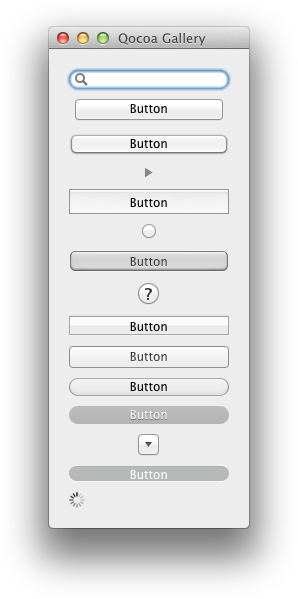
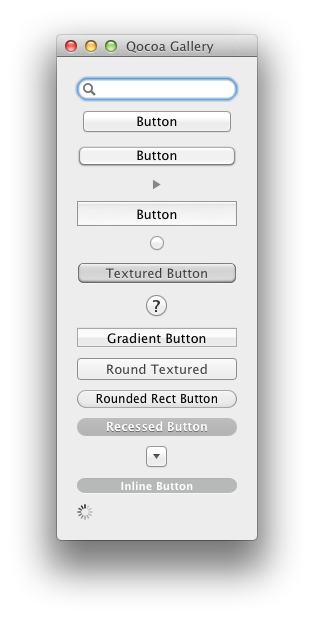
Extend QButton API.

Changed region(s): [[0.151, 0.0301, 0.8456, 0.9015]]

diff --git a/gallery.cpp b/gallery.cpp
@@ -10,21 +10,60 @@ Gallery::Gallery(QWidget *parent) : QWidget(parent)
 {
     setWindowTitle("Qocoa Gallery");
     QVBoxLayout *layout = new QVBoxLayout(this);
-    layout->addWidget(new QSearchField(this));
-    layout->addWidget(new QButton(this, QButton::Rounded));
-    layout->addWidget(new QButton(this, QButton::RegularSquare));
-    layout->addWidget(new QButton(this, QButton::Disclosure));
-    layout->addWidget(new QButton(this, QButton::ShadowlessSquare));
-    layout->addWidget(new QButton(this, QButton::Circular));
-    layout->addWidget(new QButton(this, QButton::TexturedSquare));
-    layout->addWidget(new QButton(this, QButton::HelpButton));
-    layout->addWidget(new QButton(this, QButton::SmallSquare));
-    layout->addWidget(new QButton(this, QButton::TexturedRounded));
-    layout->addWidget(new QButton(this, QButton::RoundRect));
-    layout->addWidget(new QButton(this, QButton::Recessed));
-    layout->addWidget(new QButton(this, QButton::RoundedDisclosure));
+
+    QSearchField *searchField = new QSearchField(this);
+    layout->addWidget(searchField);
+
+    QButton *roundedButton = new QButton(this, QButton::Rounded);
+    roundedButton->setText("Button");
+    layout->addWidget(roundedButton);
+
+    QButton *regularSquareButton = new QButton(this, QButton::RegularSquare);
+    regularSquareButton->setText("Button");
+    layout->addWidget(regularSquareButton);
+
+    QButton *disclosureButton = new QButton(this, QButton::Disclosure);
+    layout->addWidget(disclosureButton);
+
+    QButton *shadowlessSquareButton = new QButton(this, QButton::ShadowlessSquare);
+    shadowlessSquareButton->setText("Button");
+    layout->addWidget(shadowlessSquareButton);
+
+    QButton *circularButton = new QButton(this, QButton::Circular);
+    layout->addWidget(circularButton);
+
+    QButton *textureSquareButton = new QButton(this, QButton::TexturedSquare);
+    textureSquareButton->setText("Textured Button");
+    layout->addWidget(textureSquareButton);
+
+    QButton *helpButton = new QButton(this, QButton::HelpButton);
+    layout->addWidget(helpButton);
+
+    QButton *smallSquareButton = new QButton(this, QButton::SmallSquare);
+    smallSquareButton->setText("Gradient Button");
+    layout->addWidget(smallSquareButton);
+
+    QButton *texturedRoundedButton = new QButton(this, QButton::TexturedRounded);
+    texturedRoundedButton->setText("Round Textured");
+    layout->addWidget(texturedRoundedButton);
+
+    QButton *roundedRectangleButton = new QButton(this, QButton::RoundRect);
+    roundedRectangleButton->setText("Rounded Rect Button");
+    layout->addWidget(roundedRectangleButton);
+
+    QButton *recessedButton = new QButton(this, QButton::Recessed);
+    recessedButton->setText("Recessed Button");
+    layout->addWidget(recessedButton);
+
+    QButton *roundedDisclosureButton = new QButton(this, QButton::RoundedDisclosure);
+    layout->addWidget(roundedDisclosureButton);
+
 #ifdef MAC_OS_X_VERSION_10_7
-    layout->addWidget(new QButton(this, QButton::Inline));
+    QButton *inlineButton = new QButton(this, QButton::Inline);
+    inlineButton->setText("Inline Button");
+    layout->addWidget(inlineButton);
 #endif
-    layout->addWidget(new QProgressIndicatorSpinning(this));
+
+    QProgressIndicatorSpinning *progressIndicatorSpinning = new QProgressIndicatorSpinning(this);
+    layout->addWidget(progressIndicatorSpinning);
 }

diff --git a/qbutton_mac.mm b/qbutton_mac.mm
@@ -26,19 +26,46 @@ THE SOFTWARE.
 
 #import "Foundation/NSAutoreleasePool.h"
 #import "AppKit/NSButton.h"
+#import "AppKit/NSFont.h"
 
 class QButtonPrivate
 {
 public:
-    QButtonPrivate(QButton *qButton, NSButton *nsButton,
-                   QButton::BezelStyle bezelStyle)
+    QButtonPrivate(QButton *qButton, NSButton *nsButton, QButton::BezelStyle bezelStyle)
         : qButton(qButton), nsButton(nsButton)
     {
-        if (bezelStyle == QButton::Disclosure
-                || bezelStyle == QButton::Circular
-                || bezelStyle == QButton::HelpButton
-                || bezelStyle == QButton::RoundedDisclosure)
-                setText(QString());
+        switch(bezelStyle) {
+            case QButton::Disclosure:
+            case QButton::Circular:
+            case QButton::Inline:
+            case QButton::RoundedDisclosure:
+            case QButton::HelpButton:
+                [nsButton setTitle:@""];
+            default:
+                break;
+        }
+
+        NSFont* font = 0;
+        switch(bezelStyle) {
+            case QButton::RoundRect:
+                font = [NSFont fontWithName:@"Lucida Grande" size:12];
+                break;
+
+            case QButton::Recessed:
+                font = [NSFont fontWithName:@"Lucida Grande Bold" size:12];
+                break;
+
+#ifdef MAC_OS_X_VERSION_10_7
+            case QButton::Inline:
+                font = [NSFont boldSystemFontOfSize:[NSFont systemFontSizeForControlSize:NSSmallControlSize]];
+                break;
+#endif
+
+            default:
+                font = [NSFont systemFontOfSize:[NSFont systemFontSizeForControlSize:NSRegularControlSize]];
+                break;
+        }
+        [nsButton setFont:font];
 
         switch(bezelStyle) {
             case QButton::Rounded:
@@ -94,19 +121,21 @@ public:
 #endif
         }
 
+        switch(bezelStyle) {
+            case QButton::Recessed:
+                [nsButton setButtonType:NSPushOnPushOffButton];
+            case QButton::Disclosure:
+                [nsButton setButtonType:NSOnOffButton];
+            default:
+                [nsButton setButtonType:NSMomentaryPushInButton];
+        }
+
         [nsButton setBezelStyle:bezelStyle];
     }
 
     void clicked()
     {
-        emit qButton->clicked();
-    }
-
-    void setText(const QString &text)
-    {
-        NSAutoreleasePool *pool = [[NSAutoreleasePool alloc] init];
-        [nsButton setTitle:fromQString(text)];
-        [pool drain];
+        emit qButton->clicked(qButton->isChecked());
     }
 
     QButton *qButton;
@@ -148,5 +177,28 @@ QButton::QButton(QWidget *parent, BezelStyle bezelStyle) : QWidget(parent)
 
 void QButton::setText(const QString &text)
 {
-    pimpl->setText(text);
+    NSAutoreleasePool *pool = [[NSAutoreleasePool alloc] init];
+    [pimpl->nsButton setTitle:fromQString(text)];
+    [pool drain];
+}
+
+void QButton::setImage(const QPixmap &image)
+{
+    [pimpl->nsButton setImage:fromQPixmap(image)];
+}
+
+void QButton::setChecked(bool checked)
+{
+    [pimpl->nsButton setState:checked];
+}
+
+void QButton::setCheckable(bool checkable)
+{
+    const NSInteger cellMask = checkable ? NSChangeBackgroundCellMask : NSNoCellMask;
+    [[pimpl->nsButton cell] setShowsStateBy:cellMask];
+}
+
+bool QButton::isChecked()
+{
+    return [pimpl->nsButton state];
 }

diff --git a/qbutton_nonmac.cpp b/qbutton_nonmac.cpp
@@ -22,29 +22,57 @@ THE SOFTWARE.
 
 #include "qbutton.h"
 
+#include <QToolBar>
+#include <QToolButton>
 #include <QPushButton>
 #include <QVBoxLayout>
+
+#include <QDebug>
 
 class QButtonPrivate
 {
 public:
-    QButtonPrivate(QPushButton *pushButton) : pushButton(pushButton) {}
-    QPushButton *pushButton;
+    QButtonPrivate(QAbstractButton *button) : button(button) {}
+    QAbstractButton *button;
 };
 
 QButton::QButton(QWidget *parent, BezelStyle) : QWidget(parent)
 {
-    QPushButton *pushButton = new QPushButton(this);
-    connect(pushButton, SIGNAL(clicked()),
+    QAbstractButton *button = 0;
+    if (qobject_cast<QToolBar*>(parent))
+        button = new QToolButton(this);
+    else
+        button = new QPushButton(this);
+    connect(button, SIGNAL(clicked()),
             this, SIGNAL(clicked()));
-    pimpl = new QButtonPrivate(pushButton);
+    pimpl = new QButtonPrivate(button);
 
     QVBoxLayout *layout = new QVBoxLayout(this);
     layout->setMargin(0);
-    layout->addWidget(pushButton);
+    layout->addWidget(button);
 }
 
 void QButton::setText(const QString &text)
 {
-    pimpl->pushButton->setText(text);
+    pimpl->button->setText(text);
+}
+
+void QButton::setImage(const QPixmap &image)
+{
+    pimpl->button->setIcon(image);
+}
+
+void QButton::setChecked(bool checked)
+{
+    pimpl->button->setChecked(checked);
+}
+
+void QButton::setCheckable(bool checkable)
+{
+    pimpl->button->setCheckable(checkable);
+}
+
+bool QButton::isChecked()
+{
+    return pimpl->button->isChecked();
 }

diff --git a/qocoa_mac.h b/qocoa_mac.h
@@ -38,6 +38,12 @@ static inline QString toQString(NSString *string)
     return QString::fromUtf8([string UTF8String]);
 }
 
+static inline NSImage* fromQPixmap(const QPixmap &pixmap)
+{
+    CGImageRef cgImage = pixmap.toMacCGImageRef();
+    return [[NSImage alloc] initWithCGImage:cgImage size:NSZeroSize];
+}
+
 static inline void setupLayout(void *cocoaView, QWidget *parent)
 {
     parent->setAttribute(Qt::WA_NativeWindow);

diff --git a/qbutton.h b/qbutton.h
@@ -31,9 +31,15 @@ public:
 
 public slots:
     void setText(const QString &text);
+    void setImage(const QPixmap &image);
+    void setChecked(bool checked);
+
+public:
+    void setCheckable(bool checkable);
+    bool isChecked();
 
 signals:
-    void clicked();
+    void clicked(bool checked = false);
 
 private:
     friend class QButtonPrivate;
